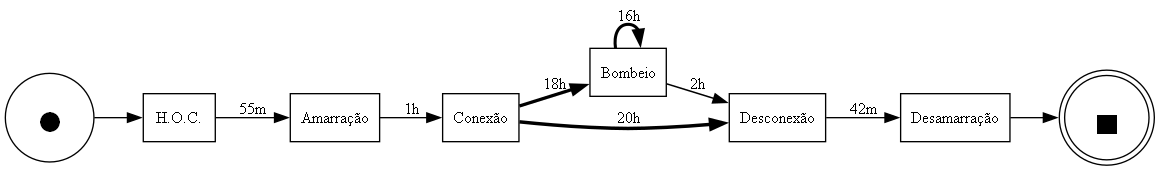
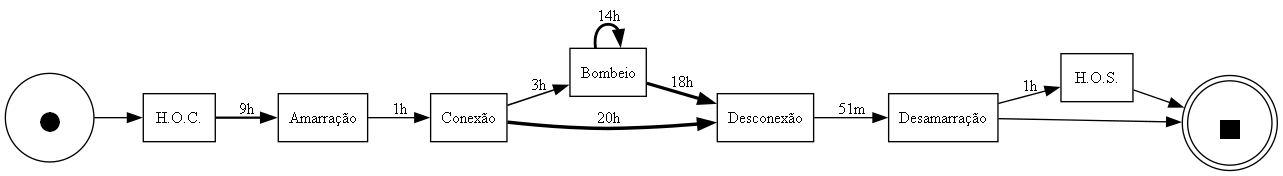
tirei modo claro e alterei o timestamp do gráfico

diff --git a/Interface/Janela/Janela.py b/Interface/Janela/Janela.py
@@ -2,7 +2,7 @@ from tkinter import *
 import tkinter as tk
 from tkinter.filedialog import askopenfilename
 import customtkinter as s
-import CTkMessagebox
+# import CTkMessagebox
 import os
 from PIL import Image, ImageTk
 import pm4py
@@ -81,9 +81,9 @@ class Janela:
         self.botaoPetriNet.pack(side='left', pady=10)
 
         #Switch:
-        self.switch_var = s.StringVar(value="on")
-        self.switch = s.CTkSwitch(self.frameTOP, text=None, variable=self.switch_var, onvalue="on", offvalue="off", command=lambda: self.modo_escuro())
-        self.switch.pack(side='right')
+        # self.switch_var = s.StringVar(value="on")
+        # self.switch = s.CTkSwitch(self.frameTOP, text=None, variable=self.switch_var, onvalue="on", offvalue="off", command=lambda: self.modo_escuro())
+        # self.switch.pack(side='right')
 
         #Combo:
         self.agg_measure = s.CTkComboBox(self.frame_lateral, values=['mean', 'median', 'min', 'max', 'sum'], command=lambda: self.agg_duracao_atividades)
@@ -92,11 +92,11 @@ class Janela:
         return
 
 
-    def modo_escuro(self):
-        if self.switch.get() == "on":
-            s.set_appearance_mode("Dark")
-        else:
-            s.set_appearance_mode("Light")
+    # def modo_escuro(self):
+    #     if self.switch.get() == "on":
+    #         s.set_appearance_mode("Dark")
+    #     else:
+    #         s.set_appearance_mode("Light")
 
     
     def escolhe_arquivo(self):
@@ -153,7 +153,7 @@ class Janela:
     def define_chaves(self):
         ##REDEFININDO AS VARIÁVEIS PORQUE PELO VISTO O TKINTER NÃO RECONHECE COMO VARIÁVEL DA JANELA PRINCIPAL OS WIDGETS CRIADOS EM JANELAS TIPO Toplevel()
         self.ID = self.listID.get()
-        self.Timestamp = self.listTimestampFinal.get()
+        self.Timestamp = self.listTimestampInicio.get()
         self.Activity = self.listActivity.get()
         ########################################################################################################################################
         try:
@@ -266,8 +266,8 @@ class Janela:
         return
     
     # pensando se não faço isso ser uma classe
-    def avisos(self, nome_do_erro):
-        warning_window = CTkMessagebox.CTkMessagebox(self.raiz, title = 'AVISO!', message = f"Ocorreu um erro do tipo: \n{nome_do_erro}", text_color="red")
+    # def avisos(self, nome_do_erro):
+    #     warning_window = CTkMessagebox.CTkMessagebox(self.raiz, title = 'AVISO!', message = f"Ocorreu um erro do tipo: \n{nome_do_erro}", text_color="red")
         # warning_window.geometry("300x150")
         # warning_window.title("Aviso")
 
